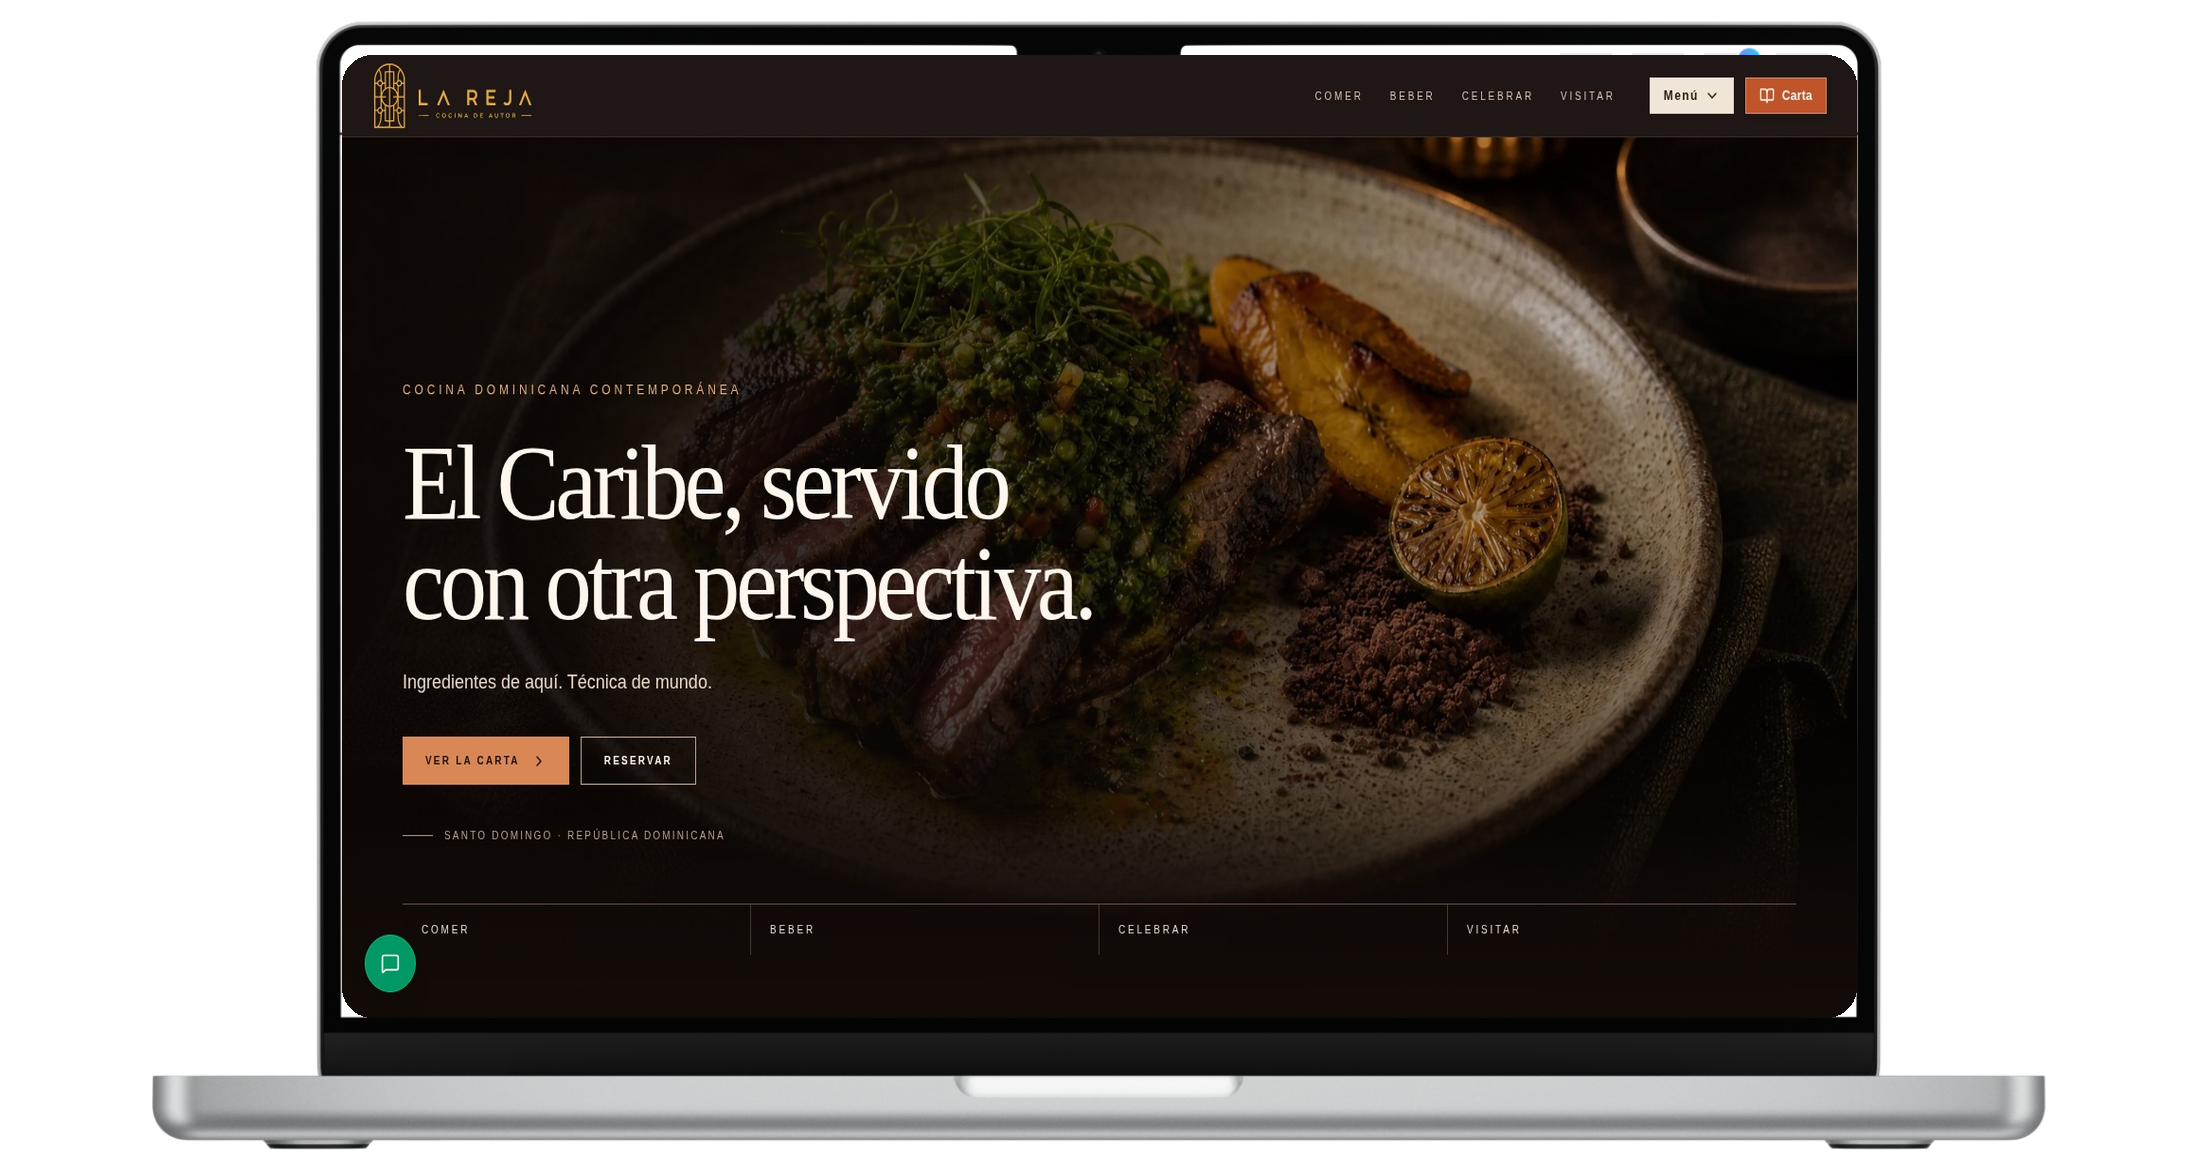
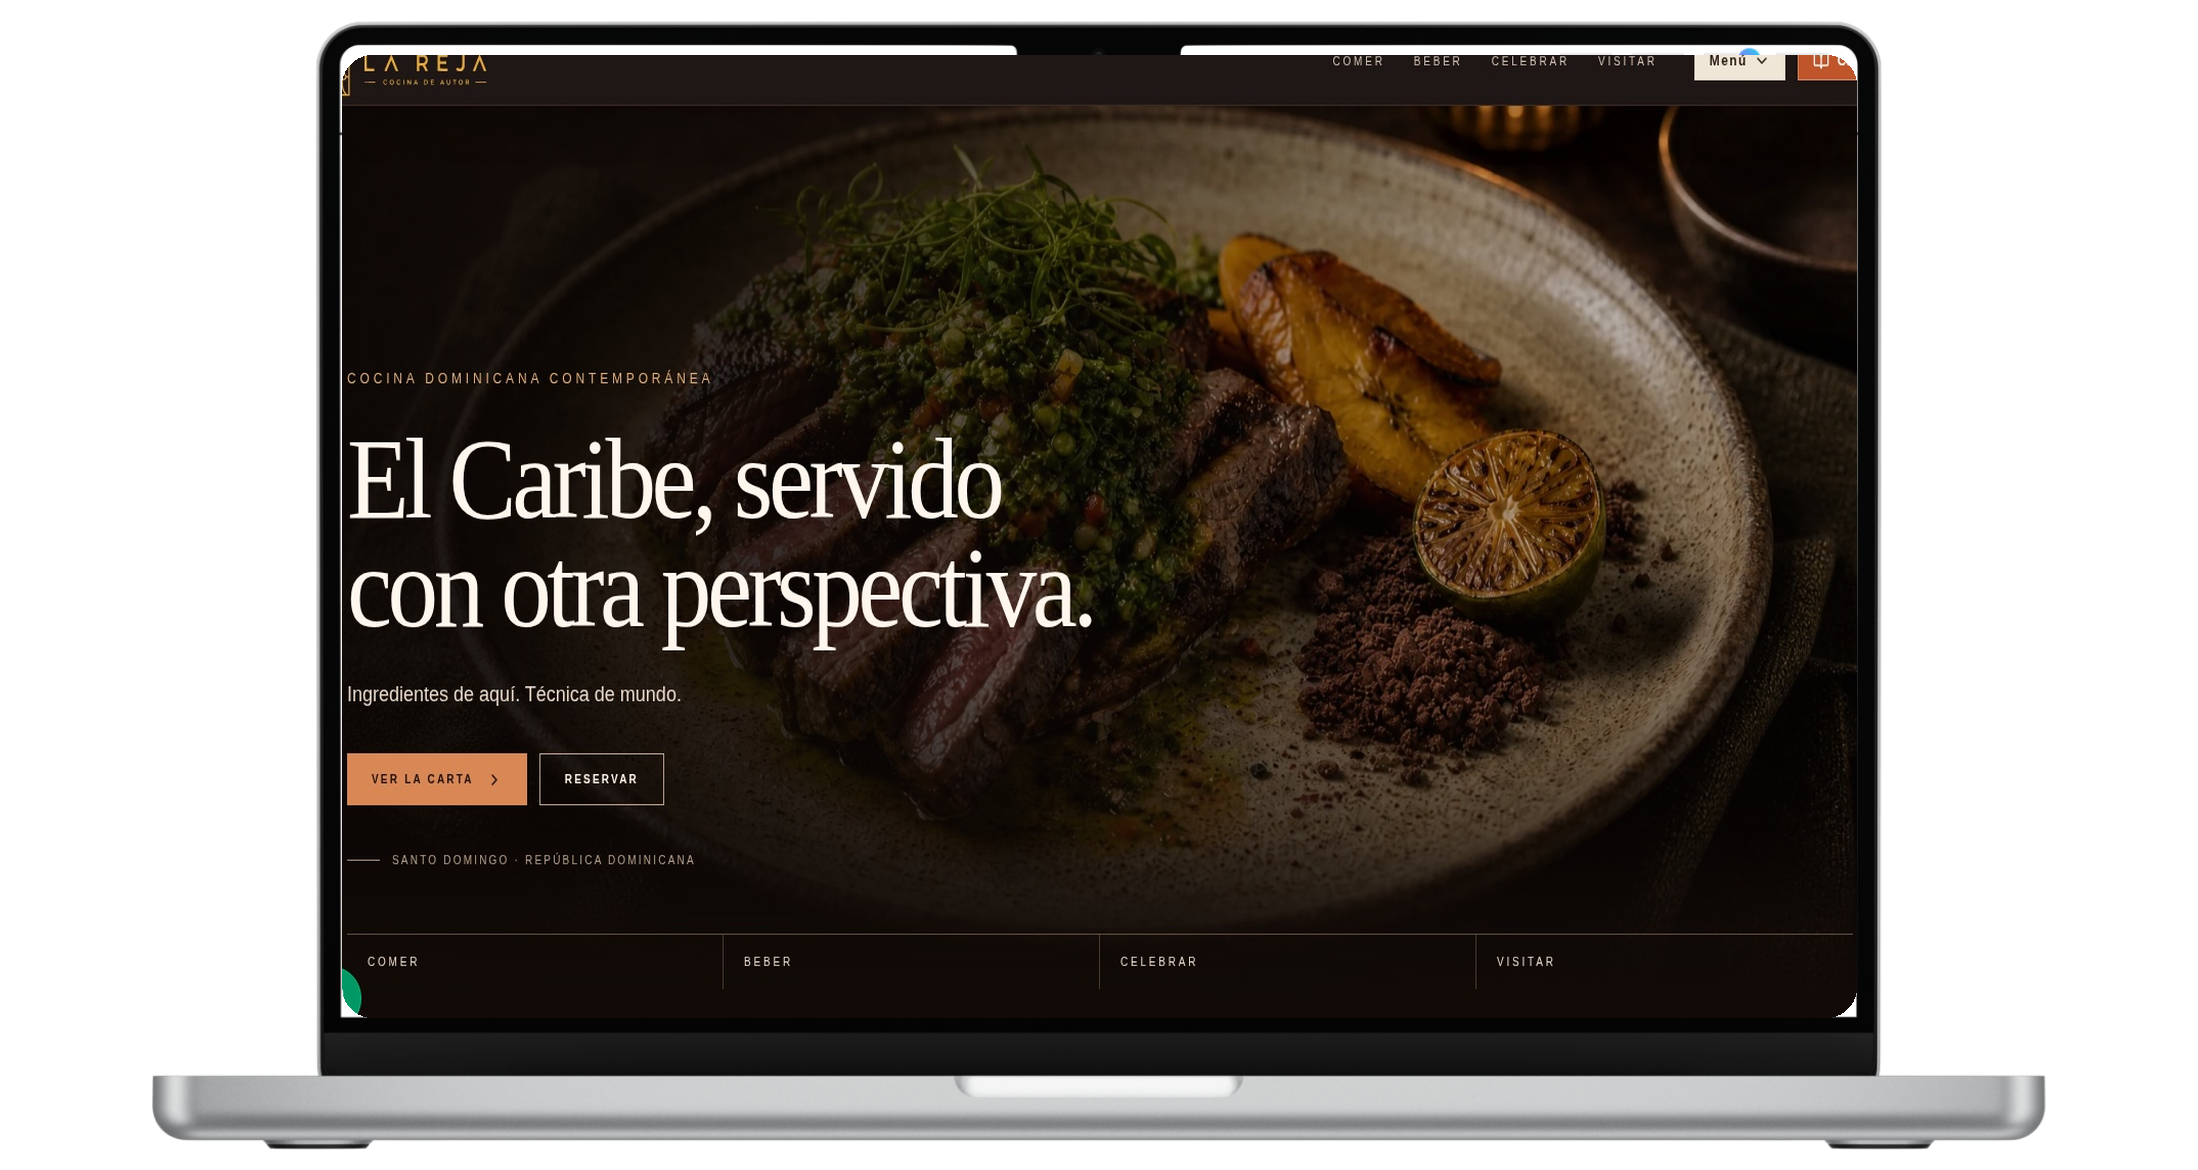
fix: zoom website captures inside laptop mockups

diff --git a/src/pages/LandingPage.tsx b/src/pages/LandingPage.tsx
@@ -1504,7 +1504,7 @@ export default function LandingPage() {
                               alt={p.title}
                               loading="lazy"
                               decoding="async"
-                              className={`w-full h-full object-contain object-center rounded-lg ${["vitality-clinic", "sabor-autentico"].includes(p.slug) ? "scale-[1.08]" : ""}`}
+                              className="w-full h-full object-contain object-center rounded-lg"
                               />
                           </div>
                         ) : (
@@ -1571,7 +1571,7 @@ export default function LandingPage() {
                                     alt={p.title}
                                     loading="lazy"
                                     decoding="async"
-                                    className={`w-full h-full object-contain object-center rounded-lg ${["vitality-clinic", "sabor-autentico"].includes(p.slug) ? "scale-[1.08]" : ""}`}
+                                    className="w-full h-full object-contain object-center rounded-lg"
 
                                   />
                                 </div>
